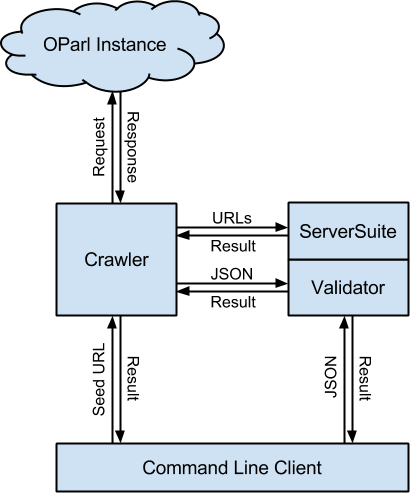
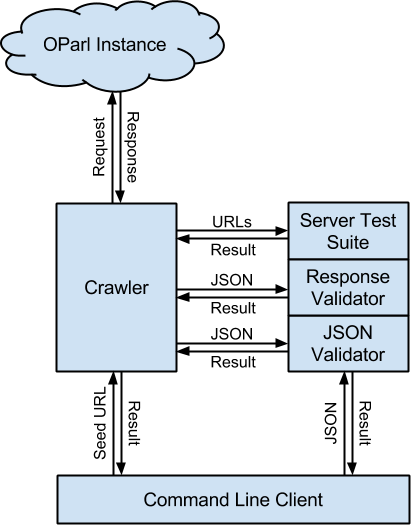
Architecture emendations

diff --git a/final-presentation.tex b/final-presentation.tex
@@ -24,8 +24,8 @@
     \fontsize{3}{3.5}\selectfont{\color{black!25}{\vbox{\hsize=\mytempdimen#3}}}\vskip3pt%
 }}
 
-\let\raggedright=\RaggedRight
-\hyphenation{Freeze}
+%\let\raggedright=\RaggedRight
+%\hyphenation{Freeze}
 
 \newcommand\prelim[1]{\small }
 
@@ -83,11 +83,6 @@
         \item Hackathons bei Spline
         \item Protokolle
     \end{itemize}
-    
-    
- 
-
-
 }
 
 \frame{
@@ -130,12 +125,11 @@
 \frame{
     \frametitle{Architektur}
     \begin{columns}
-        \begin{column}{.5\textwidth}
+        \begin{column}{.6\textwidth}
             \begin{itemize}[<+->]
-                \item Validator
+                \item Command Line Interface
                 \begin{itemize}[<*>]
-                    \item Basierend auf Freeze vom 22. Juli
-                    \item Mit einigen optionalen Features
+                    \item Gemeinsamer Entry-Point
                 \end{itemize}
                 \item Crawler
                 \begin{itemize}[<*>]
@@ -147,15 +141,16 @@
                     \item Suite mit Anforderungen auf tieferer Abstraktionsebene
                     \item Aber auf Layer 7
                 \end{itemize}
-                \item Command Line Interface
+                \item Validator
                 \begin{itemize}[<*>]
-                    \item Gemeinsamer Entry-Point
+                    \item Basierend auf Freeze vom 22. Juli
+                    \item Mit einigen optionalen Features
                 \end{itemize}
             \end{itemize}
         \end{column}
-        \begin{column}{.5\textwidth}
-            \vspace{-.5cm}
-            \includegraphics[width=\textwidth]{architecture.final.png}
+        \begin{column}{.4\textwidth}
+            \hspace{-1cm}
+            \includegraphics[width=1.2\textwidth]{architecture.final.png}
         \end{column}
     \end{columns}
 }
@@ -175,8 +170,11 @@
         \end{itemize}
         \item Paralleles oder finales Reporting
         \begin{itemize}[<*>]
-            \item Parallel: Der Benutzer kann abbrechen und bereits gefundene Fehler beheben
-            \item \textbf{Final}: Spart ein paar Zeilen Code
+            \item \textbf{Parallel}: Der Benutzer kann abbrechen und bereits gefundene Fehler beheben
+            \begin{itemize}[<*>]
+                \item Einfach durch Generatoren in Python umsetzbar
+            \end{itemize}
+            \item Final: Spart ein paar Zeilen Code
         \end{itemize}
     \end{itemize}
 }
@@ -190,9 +188,8 @@
     \end{itemize}
 }
 \end{document}
-   Organisation: 
 
-
+Organisation:
 
 1. Unsere Kunden:
 
